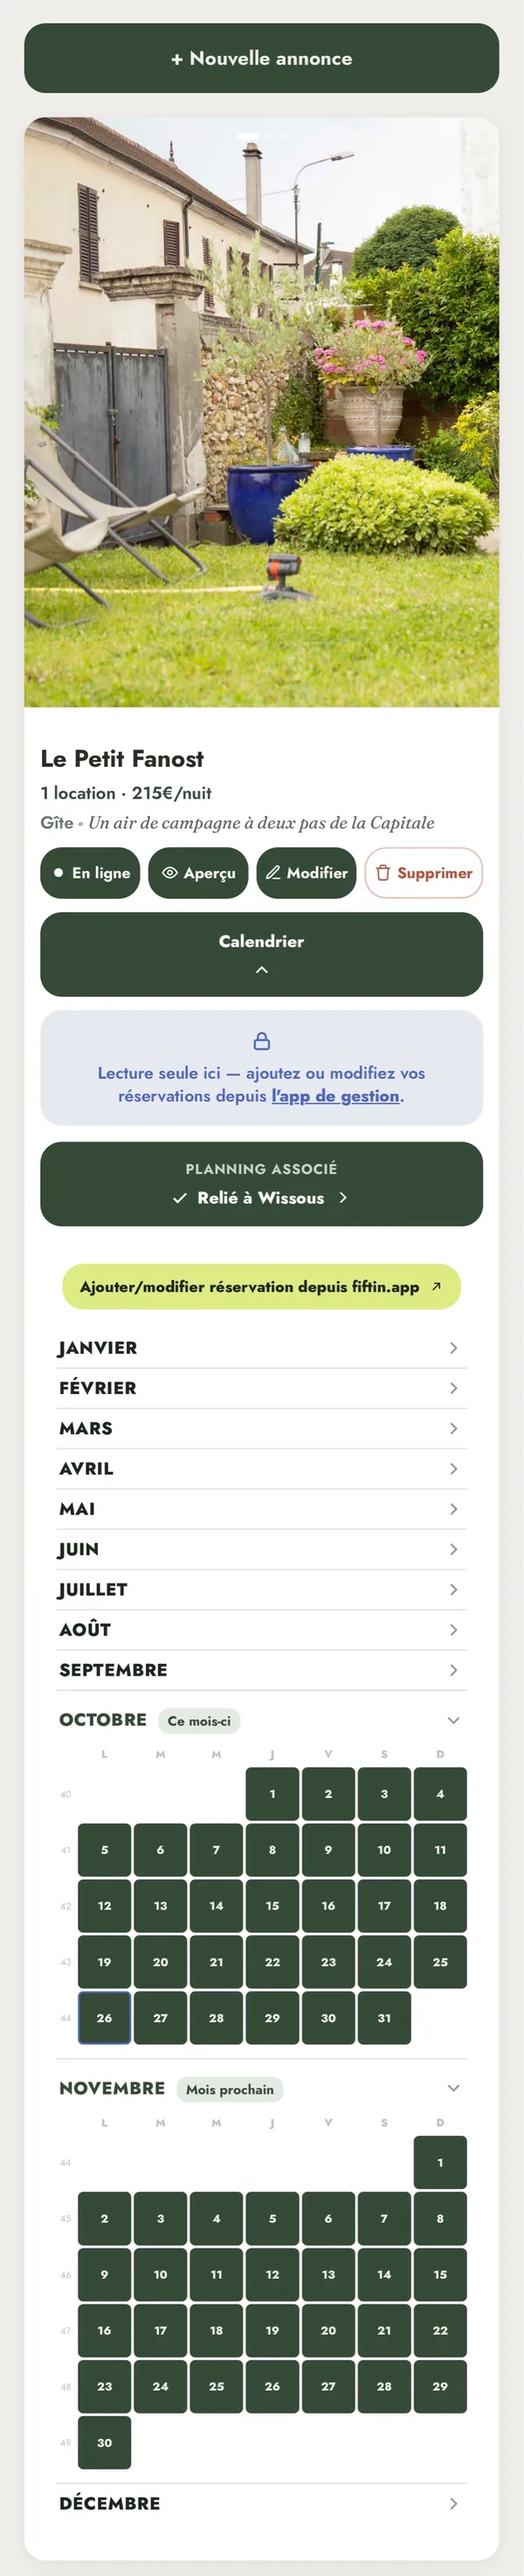
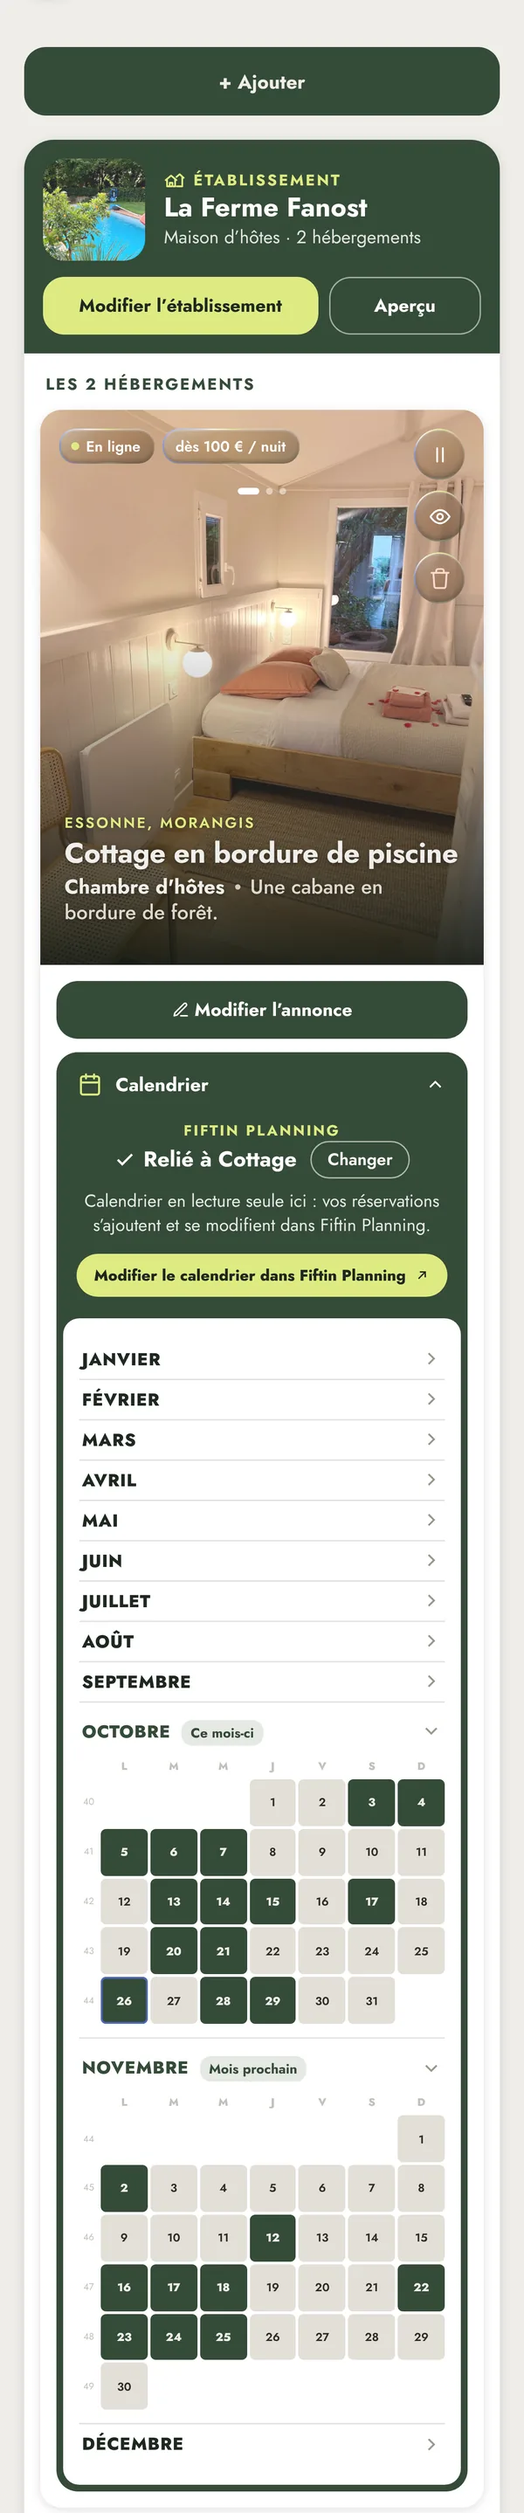
Accueil : captures Séjours refaites avec l'interface actuelle (#203)
Claude-Session: https://claude.ai/code/session_015UkhmLjrT4EUgtovE2ewbm

diff --git a/index.html b/index.html
@@ -555,7 +555,7 @@ a.is-menu:hover, button.is-menu:hover{filter:none; background:rgba(255,255,255,.
             <a class="hl-link" href="sejours/?espace=voyageur">Mon espace voyageur <svg viewBox="0 0 24 24" fill="none" stroke="currentColor" stroke-width="2" stroke-linecap="round" stroke-linejoin="round" aria-hidden="true"><path d="M5 12h14M13 6l6 6-6 6"/></svg></a>
           </div>
         </div>
-        <div class="hl-visual"><div class="hl-zoom"><div class="da-phone hl-shot da-gridscroll" role="img" aria-label="Fiftin Séjours : le fil des annonces publiées"><div class="da-scr"><img class="gs-top" src="assets/sejours-haut.webp" width="600" height="180" alt=""><div class="gs-body"><img src="assets/sejours-corps.webp" width="600" height="2288" alt="" loading="lazy"></div><img class="gs-bot" src="assets/sejours-bas.webp" width="600" height="134" alt=""></div></div></div></div>
+        <div class="hl-visual"><div class="hl-zoom"><div class="da-phone hl-shot da-gridscroll" role="img" aria-label="Fiftin Séjours : le fil des annonces publiées"><div class="da-scr"><img class="gs-top" src="assets/sejours-haut.webp" width="600" height="163" alt=""><div class="gs-body"><img src="assets/sejours-corps.webp" width="600" height="1505" alt="" loading="lazy"></div><img class="gs-bot" src="assets/sejours-bas.webp" width="600" height="128" alt=""></div></div></div></div>
       </section>
     </article>
 
@@ -576,7 +576,7 @@ a.is-menu:hover, button.is-menu:hover{filter:none; background:rgba(255,255,255,.
             <a class="hl-link" href="sejours/?espace=hote">Gérer mes annonces <svg viewBox="0 0 24 24" fill="none" stroke="currentColor" stroke-width="2" stroke-linecap="round" stroke-linejoin="round" aria-hidden="true"><path d="M5 12h14M13 6l6 6-6 6"/></svg></a>
           </div>
         </div>
-        <div class="hl-visual"><div class="hl-zoom"><div class="da-phone hl-shot da-gridscroll" role="img" aria-label="Espace hôte de Fiftin Séjours : l'annonce, ses boutons de gestion, le planning associé et le calendrier des disponibilités"><div class="da-scr"><img class="gs-top" src="assets/hote-haut.webp" width="600" height="95" alt=""><div class="gs-body"><img src="assets/hote-corps.webp" width="600" height="2949" alt="" loading="lazy"></div><img class="gs-bot" src="assets/hote-bas.webp" width="600" height="128" alt=""></div></div></div></div>
+        <div class="hl-visual"><div class="hl-zoom"><div class="da-phone hl-shot da-gridscroll" role="img" aria-label="Espace hôte de Fiftin Séjours : l'établissement, l'hébergement, ses boutons de gestion, Fiftin Planning et le calendrier des disponibilités"><div class="da-scr"><img class="gs-top" src="assets/hote-haut.webp" width="600" height="80" alt=""><div class="gs-body"><img src="assets/hote-corps.webp" width="600" height="2877" alt="" loading="lazy"></div><img class="gs-bot" src="assets/hote-bas.webp" width="600" height="134" alt=""></div></div></div></div>
       </section>
 
       <div class="hl-joint" role="img" aria-label="Fiftin Planning et votre annonce Fiftin Séjours sont connectés : les disponibilités gérées dans Planning s'affichent sur votre annonce.">

diff --git a/CLAUDE.md b/CLAUDE.md
@@ -56,7 +56,7 @@ Annuaire mobile-first de location courte durée en réservation directe pour les
 - Vidéo de marque réservée aux heros, même voile vert (`rgba(29,40,32,.20→.32→.24)`), image fixe de secours.
 - Fonds : hero vidéo → zones blanc / crème qui se chevauchent avec coins arrondis de 44 px → zone finale vert sauge avec le pied de page commun (`.da-foot`). Cartes : dégradés sauge (#EDF1E8→#E3E9DE) et lavande (#EEF0FA→#E2E6F6), rayon 28 px.
 - En-tête fixe sur l'accueil et Planning : transparent sur la vidéo, barre vert sauge opaque (couleur propriétaire, `#354B38`) dès qu'on défile ; même bandeau vert pour la barre du logo de Séjours (`.sej-home`) (hauteur 52 px comme l'en-tête de l'outil ; picto à gauche sur l'accueil, Planning et Séjours (sur l'accueil et Planning, seulement une fois le bandeau vert apparu) ; à droite, un bouton menu discret (connecté ou non) (trois traits, carré arrondi 40 px / coins 13 px comme le petit logo, filet blanc translucide, classe `.is-menu`, trois traits qui se changent en croix quand le menu est ouvert) qui ouvre le même menu sur l'accueil, Planning et Séjours, rangé par espace (demande de César) : en tête l'e-mail (+ photo sur Séjours) ; deux encarts comme la carte « Votre profil » (`.hl-menu-spaces` / `.hl-space`, boutons) qui sont des onglets, sans navigation (demande de César) : toucher Espace voyageur ou Espace hôte affiche seulement les entrées de cet espace (`hlMenuShowSpace()`, `.hl-menu-group[data-group]`, onglet choisi en vert plein, et la carte de ses entrées aussi (textes et pictos blancs), deux cartes distinctes ; à l'ouverture : l'espace courant sur Séjours, `syncMenuSpace()`, Espace hôte sur Planning, Espace voyageur sur l'accueil) — entrées sans titre de bloc (l'onglet choisi suffit) ; voyageur : Explorer (`onglet=explore`, étoile de l'onglet Explorer), Mes séjours (`onglet=sejours`), Mon profil (`onglet=profil`, connecté seulement) ; hôte : Mes annonces (`sejours/?espace=hote`, « Déposer une annonce » pour un visiteur), Mon planning (« Fiftin Planning » pour un visiteur), Mon profil (`sejours/?espace=hote&onglet=profil` → Profil hôte, connecté seulement) ; sur Séjours, les liens `sejours/?…` du menu changent d'espace sans recharger, `routeEspaceParams()` ; enfin `.hl-menu-foot`, toujours présent, visiteur compris : Découvrir Fiftin (picto boussole), Découvrir Fiftin Planning (picto livre ouvert), Se déconnecter ; visiteur non connecté : bouton jaune « Se connecter » en cartouche au format du bouton menu (40 px de haut, coins 13 px, filet 1,5 px) suivi du même bouton menu (`.hl-guest-btn`), même menu (`.is-guest` sur `.hl-account`, entrées `.m-guest` / `.m-user`) avec « Vous n'êtes pas connecté » et Se connecter ou créer un compte (encart jaune aux coins de 13 px, `.m-login`) en tête, encart hôte « Déposez une annonce »). Fenêtre de connexion : une seule, identique partout (accueil, Séjours, outil ; Planning renvoie vers l'outil) — `assets/fiftin-auth.css` (classes `.ff-auth*`, lien versionné `?v=N` à incrémenter à chaque modification, l'outil met /assets/ en cache) : surimpression sur la page assombrie et floutée, carte en vert propriétaire (#354B38, aplat sans motif), logo en verre, titre « Se connecter » / « Créer un compte », « Un seul compte pour Fiftin Séjours et Fiftin Planning. », champs pilules translucides, bouton contour blanc, « Créer un compte » en pastille jaune, « Mot de passe oublié ? ». Chaque page garde sa propre logique (mêmes ids qu'avant). Page Planning construite comme l'accueil : hero vidéo plein écran au texte centré, parties centrées (titre, texte, visuel en dessous).
-- Logos : toujours le même logo en verre (celui du hero de l'accueil : `logo-fiftin-mark-glass.png` sur verre translucide, anneau irisé animé, reflet), à toutes les tailles. Grand (heros de l'accueil et de Planning, 96→124 px) et moyen (« Une même marque », « Notre histoire ») : coins 25 %, lettrage 61 % décalé de −3 %. Petit (en-têtes, pieds de page, encart iCal) : mesures exactes du picto de l'en-tête de l'outil (`.app-icon-tile` : 40 px, coins 13 px, lettrage 28×22). Picto de retour à l'accueil dans les en-têtes : à gauche, comme dans l'outil ; sur Planning il n'apparaît qu'avec le bandeau vert (absent sur le hero, où le grand logo est déjà là). Téléphones : uniquement la maquette maison `.da-phone`, cadre noir très fin (coins arrondis, liseré clair, ombre douce, droit) avec les captures `assets/app-*.webp` dedans — plus aucune maquette réaliste. Captures prises dans l'outil avec le compte démo anonymisé « Les Aulnes » (cesarmarandin@gmail.com), via l'émulateur Firebase local, date fixée au 26/10/2026 (réservations à venir = en couleur ; payées = grises), format 390×860, sans barre d'état ni barre de navigateur. Grille : `app-grille-haut/corps/bas.webp`, corps qui défile dans le téléphone au rythme de la page (`.da-gridscroll`), uniquement pendant que le téléphone est entièrement visible sous l’en-tête (début et fin du contenu vus téléphone entier). Même principe pour la vue Année de la partie Chiffres (`app-annee-haut/corps/bas.webp`, cartouche SASU ouvert pour montrer tous les éléments de comptabilité) et pour la fiche réservation de la partie Réservations (`app-reservation-haut/corps.webp`, fiche entière avec consommations du séjour et paiement). Sur l'accueil seulement, le défilement couvre toute la traversée de l'écran (dès que le téléphone apparaît jusqu'à ce qu'il passe sous l'en-tête ; carte collante : traversée du bloc des deux cartes). Sur l'accueil, toutes ces animations liées au défilement (défilement dans les téléphones, zoom, voile, défilement des 5 vues) suivent une courbe en S (`hlEase`) et un léger amorti image par image (`hlSpring`, coefficient 0,14) : départs et arrêts en douceur, pas d'à-coups ; désactivé si « réduire les animations » est demandé. Carte Séjours de l'accueil : même composant avec `sejours-haut/corps/bas.webp`, capture du vrai fil Séjours (annonces publiques réelles, vue mobile, visiteur non connecté), cadrée sur les annonces avec photo, sans la carte. Sur mobile seulement, les téléphones des trois encarts de l'accueil (annonces, espace hôte, Fiftin Planning — pastilles des vues alors au-dessus du téléphone) font exactement le même zoom avant au défilement (`.hl-zoom` dans `.hl-sub-zoom`, script commun : en deux temps sur la même course : 0 → 40 % le léger flou et le voile blanc se dissipent (voile = aplat blanc `.da-phone::after` à 40 % au départ, jamais de transparence du téléphone), téléphone entier ; 40 → 100 % zoom en ease-in, discret (×1,125 au plus) ; ×1 quand il entre en bas de l'écran → presque toute la largeur de l'encart quand son haut arrive sous l'en-tête, partie basse qui glisse sous le panneau blanc du texte, à bord arrondi et ombre douce — pas de fondu). Encart « Votre annonce » (carte hôtes) : même composant avec `hote-haut/corps/bas.webp`, assemblage de captures d'écran de l'espace hôte réel fournies par César (annonce Le Petit Fanost : photo, boutons, planning associé, calendrier). Page Planning, alignée sur l'accueil (mêmes `hlEase`/`hlSpring`) : section `#plTour` sous le hero, téléphone qui défile normalement avec la page (aucun blocage), coupé à sa base par un liseré aux extrémités fondues (`.pl-tour-crop`, comme Événements, un peu plus haut), 5 vues (`.hl-view`) sans aucun défilement interne, chacune montrée depuis son haut (Semaine : événements repliés, arrivées et départs visibles ; Mois et Année : cartouche SASU ouvert), téléphone peu coupé (cadre jusqu'à 640 px, 540 px sur mobile) ; la Grille reste affichée tant que le téléphone n'est pas entièrement entré à l'écran, puis changement de vue immédiat jusqu'à ce que 40 % du cadre soit passé sous l'en-tête. Téléphones des sections : défilement du contenu sur toute la traversée de l'écran (Semaine aussi en capture longue ; Grille, Mois (`.gs-fixed`) et Clients restent fixes, Année défile ; fiche réservation (`.gs-late`) : défile seulement pendant que le téléphone est entièrement visible, pour qu'on en voie le début) ; paires de téléphones en parallaxe (le premier monte, le second descend, ±24 px, ±16 px sur mobile) ; paires de téléphones posées directement sur la grande zone, sans carte autour (voile d'entrée de la couleur de la zone) ; sur mobile, léger flou (1,4 px au plus) et voile blanc (aplat blanc, pas de transparence) à l'entrée qui se dissipent sur le premier cinquième de la traversée (pas de zoom ni de téléphone coupé ici, les téléphones sont dans des visuels en paire). Schéma des calendriers connectés (`.pl-sync`) : trois services reliés à Fiftin Planning — Airbnb et Booking.com (iCal, flèches lavande dans les deux sens) et Fiftin Séjours (carte sauge clair à liseré, sans pastille, plus étroite sur mobile, flèche sauge à sens unique Planning → Séjours : liaison interne, pas d'iCal — chambre liée via `linkedRoomId`, dates republiées par `syncPublicAvailFromAccount`, plages iCal importées comprises ; rien ne remonte de Séjours vers Planning). Ordinateur : trois cartes en ligne au-dessus de Planning ; mobile : Airbnb et Booking au-dessus, Séjours sous Planning. Mention des limites iCal sous le schéma : texte d'origine conservé (César le préfère), sans phrase sur Séjours. Flèches en parallaxe au défilement (±6 px, amorties ; pas d'animation en boucle ni de clignotement). Cartes « Vos données, vos choix » (`.pl-dual`) : même jeu que les cartes fonctionnalités, en vert sauge uniquement (mobile : la carte au milieu de l'écran se colore ; ordinateur : au survol). Section « La réalité du métier » : paire Clients (derrière, fixe) + détail du jour de la vue Semaine devant (`app-extras-haut/corps/bas.webp` : Table d'hôtes et « Extras du jour » ouvert, extras d'un client — Bailly : vin, prosecco, cafés, option salée — ajoutés en mémoire pour la capture uniquement, rien d'enregistré), qui défile ; bloc Événements (`#plEvents`) sous la paire Semaine/Clients — titre « Votre activité. Votre vie. Vos échéances. », un téléphone coupé à sa base par un fin liseré aux extrémités fondues (`.pl-events-crop`, sans carte ni fondu, pastilles des vues sous le liseré) qui passe par les 4 vues de l'écran Événements de l'outil (Professionnel, Personnel, Fiscal, Tout) avec la même mécanique que `#plTour`, pastilles aux couleurs des catégories de l'outil (pro #4E67BC, perso #8B9D86, fiscal #B18CFD, tout sauge) ; captures `app-ev-pro|perso|fiscal|tout-haut/corps.webp` du compte démo (catégories et quelques intitulés ajustés en mémoire pour la capture uniquement, rien d'enregistré).
+- Logos : toujours le même logo en verre (celui du hero de l'accueil : `logo-fiftin-mark-glass.png` sur verre translucide, anneau irisé animé, reflet), à toutes les tailles. Grand (heros de l'accueil et de Planning, 96→124 px) et moyen (« Une même marque », « Notre histoire ») : coins 25 %, lettrage 61 % décalé de −3 %. Petit (en-têtes, pieds de page, encart iCal) : mesures exactes du picto de l'en-tête de l'outil (`.app-icon-tile` : 40 px, coins 13 px, lettrage 28×22). Picto de retour à l'accueil dans les en-têtes : à gauche, comme dans l'outil ; sur Planning il n'apparaît qu'avec le bandeau vert (absent sur le hero, où le grand logo est déjà là). Téléphones : uniquement la maquette maison `.da-phone`, cadre noir très fin (coins arrondis, liseré clair, ombre douce, droit) avec les captures `assets/app-*.webp` dedans — plus aucune maquette réaliste. Captures prises dans l'outil avec le compte démo anonymisé « Les Aulnes » (cesarmarandin@gmail.com), via l'émulateur Firebase local, date fixée au 26/10/2026 (réservations à venir = en couleur ; payées = grises), format 390×860, sans barre d'état ni barre de navigateur. Grille : `app-grille-haut/corps/bas.webp`, corps qui défile dans le téléphone au rythme de la page (`.da-gridscroll`), uniquement pendant que le téléphone est entièrement visible sous l’en-tête (début et fin du contenu vus téléphone entier). Même principe pour la vue Année de la partie Chiffres (`app-annee-haut/corps/bas.webp`, cartouche SASU ouvert pour montrer tous les éléments de comptabilité) et pour la fiche réservation de la partie Réservations (`app-reservation-haut/corps.webp`, fiche entière avec consommations du séjour et paiement). Sur l'accueil seulement, le défilement couvre toute la traversée de l'écran (dès que le téléphone apparaît jusqu'à ce qu'il passe sous l'en-tête ; carte collante : traversée du bloc des deux cartes). Sur l'accueil, toutes ces animations liées au défilement (défilement dans les téléphones, zoom, voile, défilement des 5 vues) suivent une courbe en S (`hlEase`) et un léger amorti image par image (`hlSpring`, coefficient 0,14) : départs et arrêts en douceur, pas d'à-coups ; désactivé si « réduire les animations » est demandé. Carte Séjours de l'accueil : même composant avec `sejours-haut/corps/bas.webp`, capture du vrai fil Séjours (annonces publiques réelles, vue mobile, visiteur non connecté), cadrée sur les annonces avec photo, sans la carte — refaite le 30/10/2026 avec l'interface actuelle (annonces publiques lues en lecture seule et recopiées dans l'émulateur local : La Ferme Fanost et Les Baigneuses sous la glycine ; « sous le tamaris », sans photo, écartée). Sur mobile seulement, les téléphones des trois encarts de l'accueil (annonces, espace hôte, Fiftin Planning — pastilles des vues alors au-dessus du téléphone) font exactement le même zoom avant au défilement (`.hl-zoom` dans `.hl-sub-zoom`, script commun : en deux temps sur la même course : 0 → 40 % le léger flou et le voile blanc se dissipent (voile = aplat blanc `.da-phone::after` à 40 % au départ, jamais de transparence du téléphone), téléphone entier ; 40 → 100 % zoom en ease-in, discret (×1,125 au plus) ; ×1 quand il entre en bas de l'écran → presque toute la largeur de l'encart quand son haut arrive sous l'en-tête, partie basse qui glisse sous le panneau blanc du texte, à bord arrondi et ombre douce — pas de fondu). Encart « Votre annonce » (carte hôtes) : même composant avec `hote-haut/corps/bas.webp`, refait le 30/10/2026 avec l'interface actuelle : Mes annonces de La Ferme Fanost reconstitué dans l'émulateur à partir des annonces publiques (établissement, hébergement Cottage en bordure de piscine, Modifier l'annonce, Calendrier ouvert avec la carte Fiftin Planning et octobre / novembre ; nuits occupées = périodes publiques `publicAvail`, aucune donnée client ; date fixée au 26/10/2026 ; nom de location Planning « Cottage » fictif). Page Planning, alignée sur l'accueil (mêmes `hlEase`/`hlSpring`) : section `#plTour` sous le hero, téléphone qui défile normalement avec la page (aucun blocage), coupé à sa base par un liseré aux extrémités fondues (`.pl-tour-crop`, comme Événements, un peu plus haut), 5 vues (`.hl-view`) sans aucun défilement interne, chacune montrée depuis son haut (Semaine : événements repliés, arrivées et départs visibles ; Mois et Année : cartouche SASU ouvert), téléphone peu coupé (cadre jusqu'à 640 px, 540 px sur mobile) ; la Grille reste affichée tant que le téléphone n'est pas entièrement entré à l'écran, puis changement de vue immédiat jusqu'à ce que 40 % du cadre soit passé sous l'en-tête. Téléphones des sections : défilement du contenu sur toute la traversée de l'écran (Semaine aussi en capture longue ; Grille, Mois (`.gs-fixed`) et Clients restent fixes, Année défile ; fiche réservation (`.gs-late`) : défile seulement pendant que le téléphone est entièrement visible, pour qu'on en voie le début) ; paires de téléphones en parallaxe (le premier monte, le second descend, ±24 px, ±16 px sur mobile) ; paires de téléphones posées directement sur la grande zone, sans carte autour (voile d'entrée de la couleur de la zone) ; sur mobile, léger flou (1,4 px au plus) et voile blanc (aplat blanc, pas de transparence) à l'entrée qui se dissipent sur le premier cinquième de la traversée (pas de zoom ni de téléphone coupé ici, les téléphones sont dans des visuels en paire). Schéma des calendriers connectés (`.pl-sync`) : trois services reliés à Fiftin Planning — Airbnb et Booking.com (iCal, flèches lavande dans les deux sens) et Fiftin Séjours (carte sauge clair à liseré, sans pastille, plus étroite sur mobile, flèche sauge à sens unique Planning → Séjours : liaison interne, pas d'iCal — chambre liée via `linkedRoomId`, dates republiées par `syncPublicAvailFromAccount`, plages iCal importées comprises ; rien ne remonte de Séjours vers Planning). Ordinateur : trois cartes en ligne au-dessus de Planning ; mobile : Airbnb et Booking au-dessus, Séjours sous Planning. Mention des limites iCal sous le schéma : texte d'origine conservé (César le préfère), sans phrase sur Séjours. Flèches en parallaxe au défilement (±6 px, amorties ; pas d'animation en boucle ni de clignotement). Cartes « Vos données, vos choix » (`.pl-dual`) : même jeu que les cartes fonctionnalités, en vert sauge uniquement (mobile : la carte au milieu de l'écran se colore ; ordinateur : au survol). Section « La réalité du métier » : paire Clients (derrière, fixe) + détail du jour de la vue Semaine devant (`app-extras-haut/corps/bas.webp` : Table d'hôtes et « Extras du jour » ouvert, extras d'un client — Bailly : vin, prosecco, cafés, option salée — ajoutés en mémoire pour la capture uniquement, rien d'enregistré), qui défile ; bloc Événements (`#plEvents`) sous la paire Semaine/Clients — titre « Votre activité. Votre vie. Vos échéances. », un téléphone coupé à sa base par un fin liseré aux extrémités fondues (`.pl-events-crop`, sans carte ni fondu, pastilles des vues sous le liseré) qui passe par les 4 vues de l'écran Événements de l'outil (Professionnel, Personnel, Fiscal, Tout) avec la même mécanique que `#plTour`, pastilles aux couleurs des catégories de l'outil (pro #4E67BC, perso #8B9D86, fiscal #B18CFD, tout sauge) ; captures `app-ev-pro|perso|fiscal|tout-haut/corps.webp` du compte démo (catégories et quelques intitulés ajustés en mémoire pour la capture uniquement, rien d'enregistré).
 
 ## Relation entre les deux projets
 
